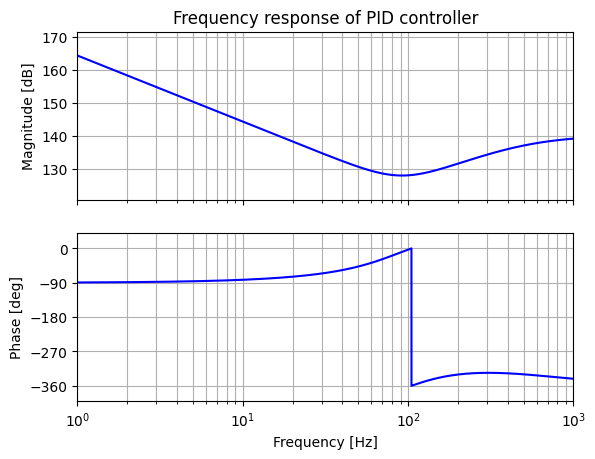
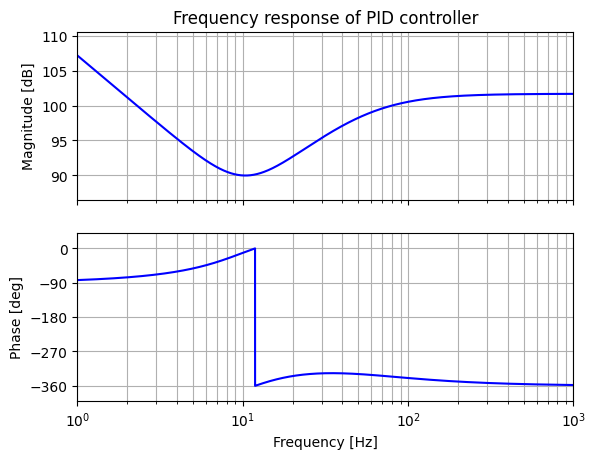
v-0.1.13

diff --git a/example/Run_mck.py b/example/Run_mck.py
@@ -1,0 +1,43 @@
+# Copyright (c) 2021 Koichi Sakata
+
+
+from pylib_sakata import init as init
+# uncomment the follows when the file is executed in a Python console.
+# init.close_all()
+# init.clear_all()
+
+import os
+import shutil
+import numpy as np
+from pylib_sakata import ctrl
+from pylib_sakata import plot
+
+print('Start simulation!')
+
+# Common parameters
+figurefolderName = 'figure_mck'
+if os.path.exists(figurefolderName):
+    shutil.rmtree(figurefolderName)
+os.makedirs(figurefolderName)
+dataNum = 10000
+freqrange = [1, 1000]
+freq = np.logspace(np.log10(freqrange[0]), np.log10(freqrange[1]), dataNum, base=10)
+print('Common parameters were set.')
+
+# Plant model
+M = 2.0
+C = 10.0
+K = M * (2.0 * np.pi * 10.0)**2
+Pns = ctrl.tf([1], [M, C, K])
+Pns_frd = ctrl.sys2frd(Pns, freq)
+print('Plant model was set.')
+
+print('Plotting figures...')
+# Plant
+fig = plot.makefig()
+ax_mag = fig.add_subplot(211)
+ax_phase = fig.add_subplot(212)
+plot.plot_tffrd(ax_mag, ax_phase, Pns_frd, '-', 'b', 1.5, 1.0, title='Frequency response of plant')
+plot.savefig(figurefolderName+'/freq_P.png')
+
+print('Finished.')

diff --git a/example/Run_pid.py b/example/Run_pid.py
@@ -31,21 +31,21 @@ print('Common parameters were set.')
 # Plant model
 M = 2.0
 C = 10.0
-K = 0
+K = 0.0
 Pmechs = ctrl.tf([1], [M, C, K])
 numDelay, denDelay = matlab.pade(Ts*4, n=4)
 Ds = ctrl.tf(numDelay, denDelay)
 Dz = z**-3
-Pns = Pmechs# * Ds
+Pns = Pmechs * Ds
 Pnz = ctrl.c2d(Pmechs, Ts, method='zoh') * Dz
 Pns_frd = ctrl.sys2frd(Pns, freq)
 Pnz_frd = ctrl.sys2frd(Pnz, freq)
 print('Plant model was set.')
 
 # Design PID controller
-freq1 = 180
+freq1 = 20
 zeta1 = 0.7
-freq2 = 180
+freq2 = 20
 zeta2 = 0.7
 Cz = ctrl.pid(freq1, zeta1, freq2, zeta2, M, C, K, Ts)
 Cz_frd = ctrl.sys2frd(Cz, freq)
